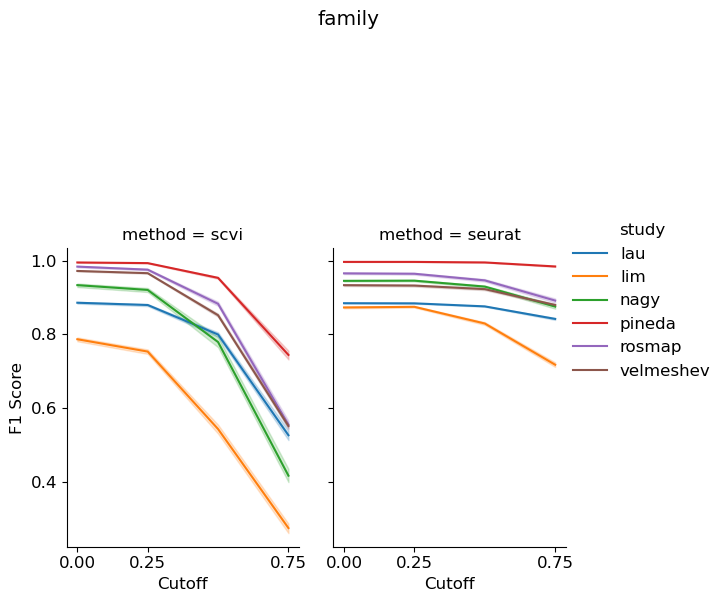
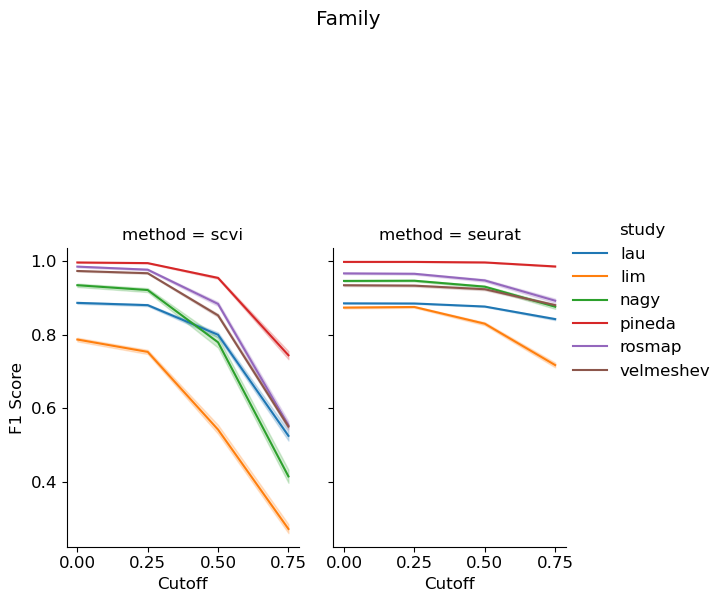
update plots

diff --git a/bin/plot_cutoff.py b/bin/plot_cutoff.py
@@ -25,9 +25,9 @@ from sklearn.preprocessing import StandardScaler, OneHotEncoder
 # Function to parse command line arguments
 def parse_arguments():
     parser = argparse.ArgumentParser(description="Download model file based on organism, census version, and tree file.")
-    parser.add_argument('--weighted_f1_results', type=str, help="Aggregated weighted results", default = "/space/grp/rschwartz/rschwartz/evaluation_summary.nf/aggregated_eval/full_query/weighted_f1_results.tsv")
+    parser.add_argument('--weighted_f1_results', type=str, help="Aggregated weighted results", default = "/space/grp/rschwartz/rschwartz/evaluation_summary.nf/aggregated_results/full_query/weighted_f1_results.tsv")
     parser.add_argument('--vars', type=str, nargs = "+", help="Names of factor columns")
-    parser.add_argument('--label_f1_results', type=str, help="Label level f1 results", default = "/space/grp/rschwartz/rschwartz/evaluation_summary.nf/aggregated_eval/full_query/label_f1_results.tsv")   
+    parser.add_argument('--label_f1_results', type=str, help="Label level f1 results", default = "/space/grp/rschwartz/rschwartz/evaluation_summary.nf/aggregated_results/full_query/label_f1_results.tsv")   
     # deal with jupyter kernel arguments
     if __name__ == "__main__":
         known_args, _ = parser.parse_known_args()
@@ -35,17 +35,17 @@ def parse_arguments():
 
 
 def plot_line(df, x, y, hue, col, style, title, xlabel, ylabel, save_path):
-    plt.rcParams.update({'font.size': 12})  # Set default font size for all plot elements
 
     g = sns.relplot(
         data=df, x=x, y=y,
         col=col, hue=hue, style=style,
         kind="line", height=4, aspect=0.75, legend="full"  # Adjust figure size
     )
-    
+    title = title.replace("_", " ").title()  # Capitalize and substitute "_" with " " 
     g.figure.suptitle(title, y=1.5, x = 0.5)  # Add title above plots
     g.set_axis_labels(xlabel, ylabel)  # Set axis labels
-    g.set(xticks=[0,0.25,0.75])
+    # set titles with capitalization and substitute "_" with " "
+    g.set(xticks=[0,0.25,0.5,0.75])
     plt.xlabel(xlabel)
     plt.ylabel(ylabel)
    # plt.tight_layout()
@@ -53,7 +53,8 @@ def plot_line(df, x, y, hue, col, style, title, xlabel, ylabel, save_path):
 
  
 def main():
-    
+    plt.rcParams.update({'font.size': 12})  # Set default font size for all plot elements
+
     args = parse_arguments()
     weighted_f1_results = pd.read_csv(args.weighted_f1_results, sep="\t")
     weighted_f1_results["study"] = weighted_f1_results["query"].str.split(" ").str[0]
@@ -71,6 +72,8 @@ def main():
         weighted_f1_results[factor] =weighted_f1_results[factor].astype('float')
         label_f1_results[factor] =label_f1_results[factor].astype('float')
     
+    categories = ['reference', 'ref_split', 'study', 'region_match', 'disease_state', 
+                'dev_stage', 'sex', 'query_region', 'ref_region', 'subsample_ref']
 
     # plot cutoff vs f1
     # color by label and facet by method 
@@ -94,41 +97,46 @@ def main():
                   xlabel="Cutoff", ylabel="F1 Score", 
                   save_path=os.path.join(outdir,f"{key_value}_f1_score.png"))
         
-    
-    
+        label_long = pd.melt(subset, id_vars=['cutoff', 'f1_score', 'method','label','reference',"subsample_ref"], value_vars=categories, 
+                                    var_name='category', value_name='category_value')
+        
+        g = sns.FacetGrid(label_long, col="method", row="subsample_ref", height=6, sharey=False)
+            # Use map_dataframe to allow hue
+        g.map_dataframe(sns.lineplot, x="cutoff", y="f1_score", hue="label")
+        # Set axis labels and titles
+        g.set_axis_labels("Cutoff", "F1 Score")
+        # capitalize titled
+
+        # Adjust layout
+        g.fig.subplots_adjust(top=0.95)
+        # Extract legend handles and labels
+        handles, labels = g.axes[0, 0].get_legend_handles_labels()
+        # Create a separate legend figure
+        fig_legend, ax_legend = plt.subplots(figsize=(10, 6))
+        ax_legend.legend(handles, labels, loc="center", ncol=2, frameon=False, fontsize=12)
+        ax_legend.axis("off")
+        plt.show()
+        g.savefig(os.path.join(outdir, f"{key_value}_label_f1_score_ref.png"))
+        fig_legend.savefig(os.path.join(outdir, f"{key_value}_label_ref_legend.png"))
+
     parent = "weighted_f1_plots"
     os.makedirs(parent, exist_ok=True)
     for key_value in weighted_f1_results["key"].unique():
+        
         outdir = os.path.join(parent, key_value)
         os.makedirs(outdir, exist_ok=True)
         weighted_subset = weighted_f1_results[weighted_f1_results["key"] == key_value]
         # Convert the relevant categories into a long format for faceting
-        #categories = ['reference', 'ref_split', 'study', 'region_match', 'disease_state', 
-                      #'dev_stage', 'sex', 'query_region', 'ref_region', 'subsample_ref']
-        #weighted_subset_long = pd.melt(weighted_subset, id_vars=['cutoff', 'weighted_f1', 'method'], value_vars=categories, 
-                                    #var_name='category', value_name='category_value')
 
-        ## Create a FacetGrid with different categories
-        #g = sns.FacetGrid(weighted_subset_long, col='category_value', col_wrap=4, height=3, sharey=False)
+        
+        # replace acce "_" with " " for all category
+        # capitalize all strings
+        for category in categories:
+            if weighted_subset[category].dtype == "object":
+                weighted_subset[category] = weighted_subset[category].str.replace("_", " ")
 
-        ## Map the lineplot to the grid
-        #g.map(sns.lineplot, 'cutoff', 'weighted_f1', 'method')
-
-        ## Customize the plot
-        #g.set_axis_labels('Cutoff', 'F1 Score')
-        #g.set_titles("{col_name}")
-        #g.set(ylim=(0, 1))  # Adjust as needed for your data
-
-        ## Save the combined plot
-        #g.fig.suptitle(f"{key_value} - Weighted F1 Score", fontsize=16)
-        #g.fig.tight_layout()
-        #g.fig.subplots_adjust(top=0.9)  # Adjust the title
-        #g.savefig(os.path.join(outdir, f"{key_value}_combined_weighted_f1_score.png"))
-
-    
-
-        plot_line(weighted_subset, x="cutoff", y="weighted_f1", col="method", hue="reference", xlabel="Cutoff", style="ref_split",
-                  ylabel="F1 Score", title=f"{key_value}", save_path=os.path.join(outdir,f"{key_value}_weighted_f1_score_ref.png"))
+        #plot_line(weighted_subset, x="cutoff", y="weighted_f1", col="method", hue="reference", xlabel="Cutoff", style="ref_split",
+              #    ylabel="F1 Score", title=f"{key_value}", save_path=os.path.join(outdir,f"{key_value}_weighted_f1_score_ref.png"))
    
         plot_line(weighted_subset, x="cutoff", y="weighted_f1", col="method",hue="ref_split", xlabel="Cutoff", style=None,
                   ylabel="F1 Score", title=f"{key_value}", save_path=os.path.join(outdir,f"{key_value}_weighted_f1_score_ref_split.png"))
@@ -151,17 +159,34 @@ def main():
         plot_line(weighted_subset, x="cutoff", y="weighted_f1", col="method", hue="sex", style=None, xlabel="Cutoff",
                   ylabel="F1 Score", title=f"{key_value}", save_path=os.path.join(outdir,f"{key_value}_weighted_f1_score_sex.png"))
         
-        plot_line(weighted_subset, x="cutoff", y="weighted_f1", col="method", hue="query_region", style=None, xlabel="Cutoff",
-                  ylabel="F1 Score", title=f"{key_value}", save_path=os.path.join(outdir,f"{key_value}_weighted_f1_score_query_region.png"))
+        #plot_line(weighted_subset, x="cutoff", y="weighted_f1", col="method", hue="query_region", style=None, xlabel="Cutoff",
+         #         ylabel="F1 Score", title=f"{key_value}", save_path=os.path.join(outdir,f"{key_value}_weighted_f1_score_query_region.png"))
         
-        #plot_line(weighted_subset, x="cutoff", y="weighted_f1", col="method", hue="ref_region", style=None, xlabel="Cutoff",  
-         #         ylabel="F1 Score", title=f"{key_value}", save_path=os.path.join(outdir,f"{key_value}_weighted_f1_score_reference_region.png"))
-        
-        plot_line(weighted_subset, x="cutoff", y="weighted_f1", col="method", hue="subsample_ref", style=None, xlabel="Cutoff",
+        plot_line(weighted_subset, x="cutoff", y="weighted_f1", col="method", hue="subsample_ref", style="ref_split", xlabel="Cutoff",
                   ylabel="F1 Score", title=f"{key_value}", save_path=os.path.join(outdir,f"{key_value}_weighted_f1_score_subsample_ref.png"))
         
-     
-                                                                                  
-                                                                                  
+
+        # Facet by both method (columns) and ref_split (rows)
+        g = sns.FacetGrid(weighted_subset, col="method", row="ref_split", height=6, sharey=False)
+        # Use map_dataframe to allow hue
+        g.map_dataframe(sns.lineplot, x="cutoff", y="weighted_f1", hue="reference", style="ref_split")
+        # Set axis labels and titles
+        g.set_axis_labels("Cutoff", "F1 Score")
+        # capitalize titled
+
+        # Adjust layout
+        g.fig.subplots_adjust(top=0.95)
+        # Extract legend handles and labels
+        handles, labels = g.axes[0, 0].get_legend_handles_labels()
+        # Create a separate legend figure
+        fig_legend, ax_legend = plt.subplots(figsize=(10, 6))
+        ax_legend.legend(handles, labels, loc="center", ncol=2, frameon=False, fontsize=20)
+        ax_legend.axis("off")
+
+        g.savefig(os.path.join(outdir, f"{key_value}_weighted_f1_score_ref.png"))
+        fig_legend.savefig(os.path.join(outdir, f"{key_value}_ref_legend.png"))
+
+        plt.show()
+                                              
 if __name__ == "__main__":
     main()

diff --git a/bin/plot_comptime.py b/bin/plot_comptime.py
@@ -112,12 +112,13 @@ def main():
     reports["duration (hours)"] = reports["duration"].apply(convert_time)
     reports["realtime (hours)"] = reports["realtime"].apply(convert_time)
 
-    reports["name"] = reports["name"].apply(lambda x: x.split(" ")[0])        
+    reports["name"] = reports["name"].apply(lambda x: x.split(" ")[0])
+    reports["peak virtual memory (GB)"] = reports["peak_vmem"].astype(str).str.split(" ", expand=True)[0].replace("-",np.nan).astype(float) / 1024  # Convert to GB
     # plot boxplots for duration, realtime and %cpu for rows wehre name==rfPredict vs name==predictSeurat
     # use a facetmap to plot the boxplots
     trace_subset = reports[reports["name"].isin(["rfPredict", "predictSeurat"])]
     # Melt data for FacetGrid
-    trace_melted = trace_subset.melt(id_vars=["name"], value_vars=["duration (hours)","realtime (hours)","%cpu"], var_name="Metric", value_name="Value")
+    trace_melted = trace_subset.melt(id_vars=["name"], value_vars=["duration (hours)","%cpu"], var_name="Metric", value_name="Value")
 
     # Create FacetGrid
     g = sns.FacetGrid(trace_melted, col="Metric", sharey=False, height=5, aspect=1)
@@ -126,14 +127,7 @@ def main():
     g.set_ylabels("")
     plt.savefig("comptime.png")
     
-    #reports = args.reports
-    #all_html_results = []
-    #for root, dirs, files in os.walk(reports):
-        #for file in files:
-            #if file.endswith(".html"):
-                #all_html_results.append(os.path.join(root, file)) 
-    
-             
-    #extract_nextflow_metrics(all_html_results)
+if __name__ == "__main__":
+    main()
     
     

diff --git a/bin/label_support_corr.py b/bin/label_support_corr.py
@@ -66,7 +66,7 @@ def main():
     
     # plot bar plot and color by correlation
     #add legend
-    plt.figure(figsize=(10, 8)) 
+    plt.figure(figsize=(15, 8)) 
     sns.barplot(x = "label", y = "correlation", data = label_support_corr_df, hue="correlation", palette="coolwarm")
     
     plt.xticks(rotation=90)
